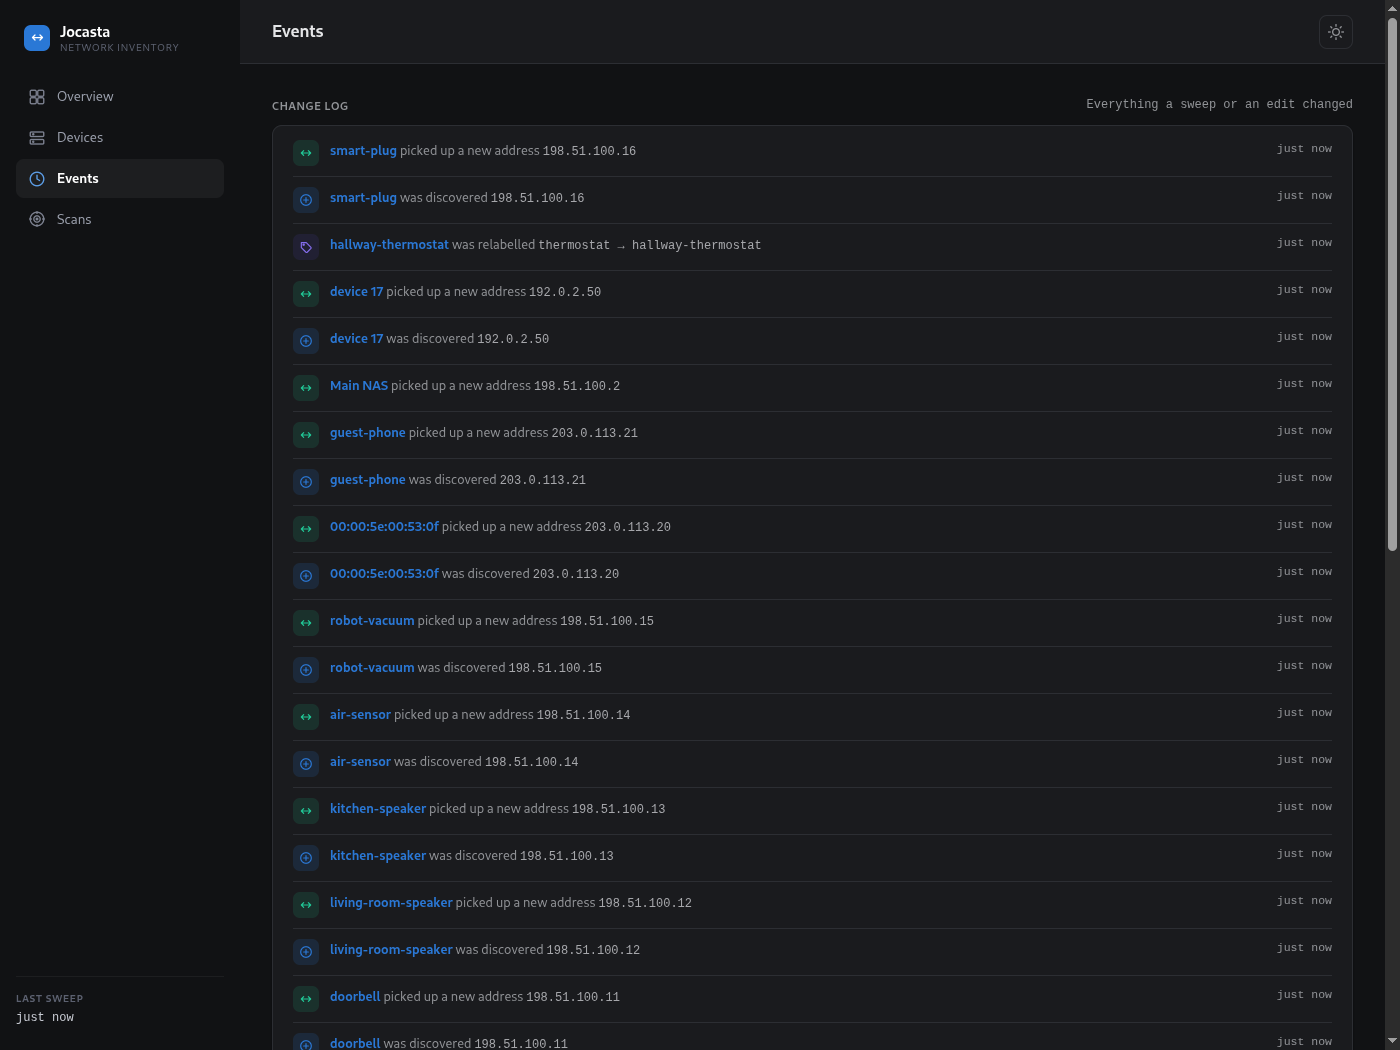
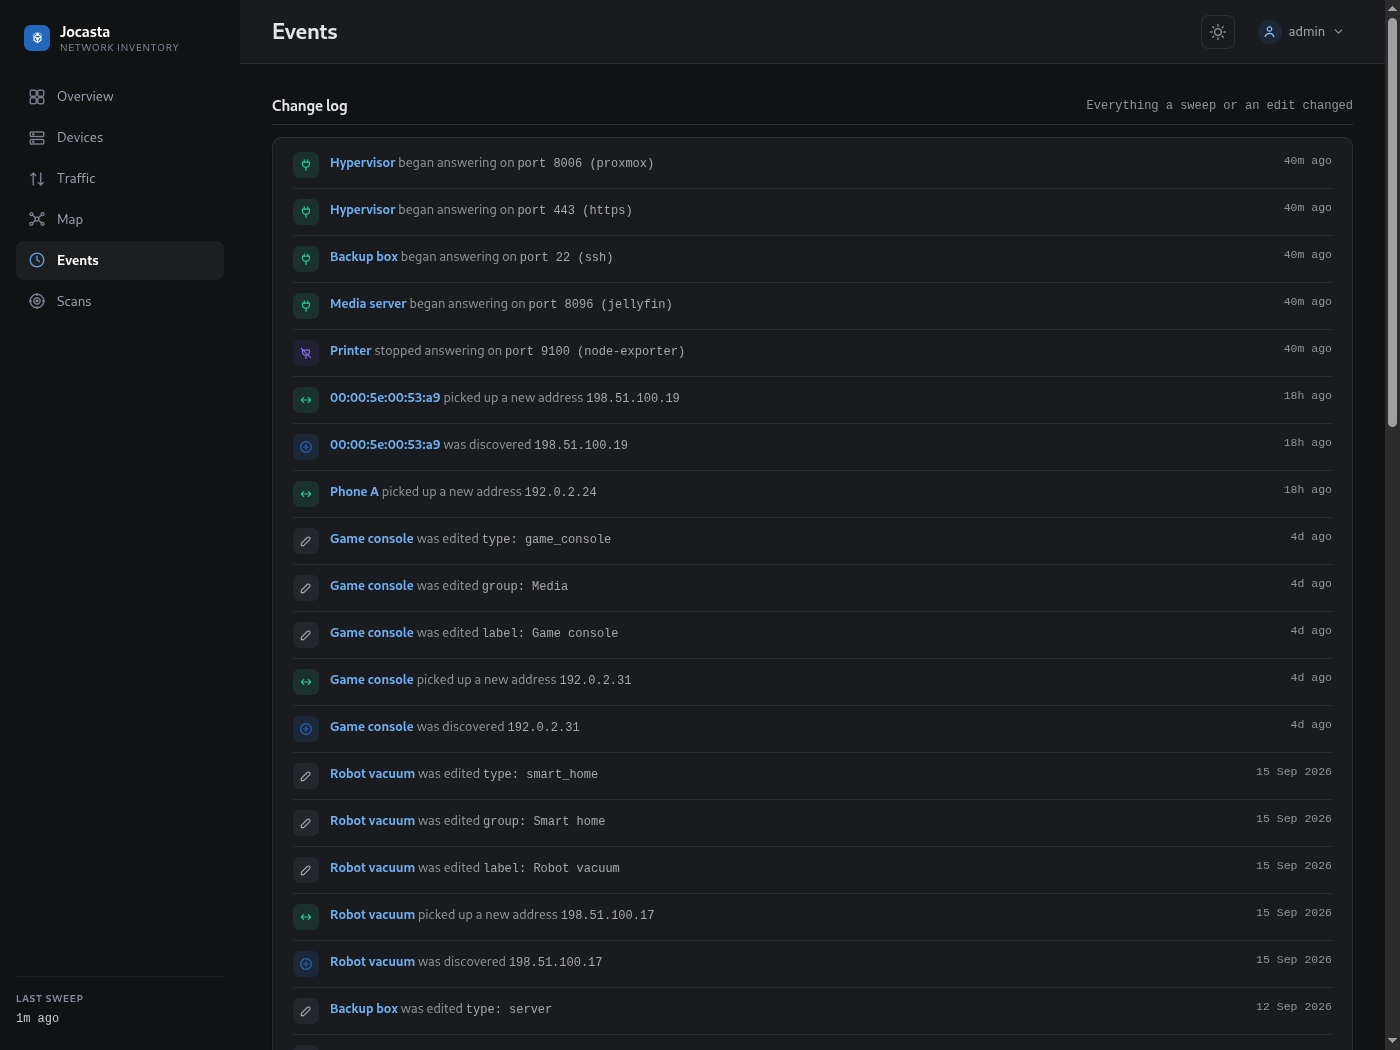
docs: cover traffic and the map, say what each feature needs, refresh screenshots (#206)
* docs: cover traffic, the map and location.timezone

The README now describes traffic collection and the Map. The timezone note moves from the traffic section to Configuration. The setup guide says to publish the NetFlow UDP port on a bridge network, and the serve section lists the flow listeners and the prune.

* docs: say what each feature needs, refresh screenshots

The README's feature table gets a Needs column and lists the sources supported today. The screenshots are retaken on a fabricated network that includes traffic, and new ones cover the Traffic page and the Map.

diff --git a/README.md b/README.md
@@ -33,28 +33,47 @@ Jocasta identifies a device by its hardware (MAC) address rather than its IP.
 An IP is treated as a lease the device currently holds, so the label, group and
 notes you attach to a device stay with it when the address changes.
 
-Alongside its own network sweep, Jocasta reads the ARP and DHCP tables from
-your router. The router sees every network segment, so devices that a
-single-machine scan would miss are identified properly, with a vendor and a
-name.
+On its own, Jocasta sweeps the networks you name. Connect your router and it
+also reads the router's ARP and DHCP tables. The router sees every network
+segment, so devices that a single-machine scan would miss are identified
+properly, with a vendor and a name.
 
 Every device discovered, every address gained or dropped, and every rename is
 written to a change log you can review. Jocasta looks at the network only when
 you tell it to, on a schedule you set or on demand. It does not scan
 continuously.
 
+If your router also exports flow records (NetFlow or IPFIX), Jocasta records
+who each device talks to: the other devices on your network and the
+organisations and countries on the internet. It keeps hourly totals per device,
+never individual connections, and points out devices that probe the network and
+what the internet tried to reach.
+
 ## What you get
 
-| | |
-|---|---|
-| Device inventory | Every device, its addresses, the segment each address is on, its vendor and name, and when it was last seen. |
-| Your own labels | Give a device a label, a group and notes, or mark it to ignore. Scans never overwrite these. |
-| Network view | Each segment, and its VLAN, as its own page with the devices on it. |
-| Change log | A timestamped record of discoveries, moves and renames, per device and across the whole network. |
-| Web interface | Overview dashboard, searchable and filterable device list, per-device and per-network pages, light and dark themes. |
-| API | A JSON API over the same data, for scripts and dashboards. |
-| MCP server | An optional [MCP](https://modelcontextprotocol.io) endpoint, so AI agents such as Claude Code can query the inventory, triage devices and report on changes. |
-| Self-contained | A single binary with an embedded database. No separate services to run. |
+Some features only work once you connect a source. The **Needs** column says
+which.
+
+| | | Needs |
+|---|---|---|
+| Device inventory | Every device, its addresses, the segment each address is on, its vendor and name, and when it was last seen. | Nothing. Without the router, only devices on Jocasta's own segment get a hardware address, vendor and name. |
+| Your own labels | Give a device a label, a group and notes, or mark it to ignore. Scans never overwrite these. | Nothing |
+| Network view | Each segment as its own page with the devices on it. | Nothing. Segment names and VLAN tags come from the router. |
+| Change log | A timestamped record of discoveries, moves and renames, per device and across the whole network. | Nothing |
+| Open ports | Which TCP ports each device listens on, and when that changes. | Port scanning turned on |
+| Traffic | Who each device talks to, on your network and on the internet, over the last day, week or month. Also shows what the internet reached or tried to reach, and devices that scan the network. | Router flow exports |
+| Map | The last hour's traffic as a live tree, from the router out to each network, device and organisation, and a world map of the countries the network talked to. | Router flow exports |
+| Web interface | Overview dashboard, searchable and filterable device list, per-device and per-network pages, light and dark themes. | Nothing |
+| API | A JSON API over the same data, for scripts and dashboards. | Nothing |
+| MCP server | An [MCP](https://modelcontextprotocol.io) endpoint, so AI agents such as Claude Code can query the inventory, triage devices and report on changes. | Turned on in config |
+| Self-contained | A single binary with an embedded database. No separate services to run. | |
+
+Sources supported today:
+
+- **Router tables:** MikroTik RouterOS, read over its REST API. See
+  [Reading your router](docs/setup.md#reading-your-router).
+- **Router flow exports:** any router that sends NetFlow v5, v9 or IPFIX. See
+  [Seeing who devices talk to](docs/setup.md#seeing-who-devices-talk-to).
 
 More screenshots: [docs/ui.md](docs/ui.md).
 
@@ -89,8 +108,8 @@ source and reading your router, see [setup](docs/setup.md).
 
 ## Documentation
 
-- [Setup](docs/setup.md): other ways to install, configuration, and reading
-  devices from your router.
+- [Setup](docs/setup.md): other ways to install, configuration, reading
+  devices from your router, and recording traffic from its flow exports.
 - [CLI](docs/cli.md): one-off sweeps, port scans and source reads from the
   command line.
 - [MCP server](docs/mcp.md): connecting AI agents to the inventory.

diff --git a/docs/setup.md b/docs/setup.md
@@ -9,7 +9,7 @@ how configuration is read, and reading devices from your router.
 ### Container image
 
 Multi-arch images (amd64 and arm64) are on the GitHub Container Registry,
-tagged `latest` and with each release version, e.g. `:v0.2.0`. The image is
+tagged `latest` and with each release version, e.g. `:v0.3.0`. The image is
 distroless and runs as a non-root user. It listens on `0.0.0.0:8080`, keeps its
 SQLite file on the `/data` volume, and reads `/data/jocasta.yaml` if one is
 mounted.
@@ -76,6 +76,15 @@ JOCASTA_SCAN__DEVICES__INTERVAL=10m      # scan.devices.interval
 JOCASTA_PLUGINS__ROUTEROS__GATEWAY__PASSWORD=change-me
 ```
 
+Times are shown in the server's time zone, which in a container is UTC. Name
+yours to see them in local time. This changes only how times are shown; they are
+stored in UTC.
+
+```yaml
+location:
+  timezone: "Australia/Sydney"   # an IANA zone name
+```
+
 Don't commit a `jocasta.yaml` that holds real addresses or credentials.
 `jocasta.yaml` and `*.db` are already in `.gitignore`.
 
@@ -120,6 +129,9 @@ plugins:
 `exporters` is required. Flow records arrive over UDP, which anyone on the
 network can forge, so only the listed routers are read.
 
+With host networking the listener is reachable as it is. On a bridge network,
+publish the port as UDP: `-p 2055:2055/udp`.
+
 On MikroTik RouterOS, point Traffic Flow at the Jocasta host (here
 `192.0.2.10`):
 
@@ -152,21 +164,15 @@ location:
 Only the country is used, to start the lines from its middle; nothing finer
 is asked for or stored.
 
-Times are shown in the server's time zone, which in a container is UTC. Name
-yours to see them in local time:
-
-```yaml
-location:
-  timezone: "Australia/Sydney"
-```
-
 ## Optional features
 
 - **Port scanning**: set `scan.ports.enabled: true` to probe every known
   address for open TCP ports on a timer. See [CLI](cli.md#ports) for one-off
   scans.
-- **Traffic**: who each device talks to, from your router's flow exports. See
-  [Seeing who devices talk to](#seeing-who-devices-talk-to).
+- **Traffic**: who each device talks to, from your router's flow exports,
+  with a Traffic page and a live Map. See
+  [Seeing who devices talk to](#seeing-who-devices-talk-to) and
+  [the web UI](ui.md#traffic-page).
 - **MCP server**: lets AI agents query the inventory. See [MCP](mcp.md).
 - **JSON API**: under `/api`, for scripts and dashboards. It takes the same API
   tokens as MCP, sent as `Authorization: Bearer <token>`.

diff --git a/docs/ui.md b/docs/ui.md
@@ -5,7 +5,8 @@ Pages are server-rendered; htmx handles in-place updates and the periodic
 refresh.
 
 The screenshots below use synthetic data: addresses from RFC 5737, hardware
-addresses from RFC 7042, invented names.
+addresses from RFC 7042, invented names. The internet peers are well-known
+public services, so their organisations resolve.
 
 ## Overview
 
@@ -89,10 +90,13 @@ tried 20 or more addresses on your network, or 20 or more ports on one of
 them, without the connections carrying data: what a scan looks like. A host
 you run scans from appears there too.
 
+![Traffic page](img/traffic.png)
+
 ## Map
 
-The Map draws the last hour's traffic as a tree. The router is in the
-middle, with a hub for each network and one for the internet around it. Each
+When traffic collection is set up, the Map draws the last hour's traffic as
+a tree. The router is in the middle, with a hub for each network and one for
+the internet around it. Each
 network's devices, and the internet's organisations, fan out around their
 hub. A branch is thicker the more traffic passed along it, and moves when
 anything under it was active in the last 15 minutes. The page redraws itself
@@ -112,6 +116,8 @@ search are kept across each redraw, and devices keep their place. The legend
 in the top right names each network's colour with its device count; pointing
 at one picks its devices out. The busiest 60 devices and 12 organisations are
 drawn, and each device links to its page.
+
+![Map](img/map.png)
 
 The World tab places the same hour's internet traffic on a map of the world.
 A country is shaded darker the more

diff --git a/docs/cli.md b/docs/cli.md
@@ -26,7 +26,9 @@ jocasta serve -p 9000         # override the port
 Starts the HTTP server. When `scan.devices.enabled` is set, it also starts a
 poller that sweeps every network in `networks` on `scan.devices.interval`. When
 `scan.ports.enabled` is set, a second poller port-scans every address the
-inventory holds on `scan.ports.interval`.
+inventory holds on `scan.ports.interval`. Each enabled `netflow` instance
+starts a listener for its router's flow exports, and an hourly prune deletes
+records older than their `retention` window.
 
 ## `scan`
 

diff --git a/docs/development.md b/docs/development.md
@@ -32,4 +32,5 @@ Queries are SQLC-generated from `internal/db/queries/`. The schema is in
 
 The images in [`docs/ui.md`](ui.md) are taken against a database of fabricated
 devices, never real network data: addresses from RFC 5737, hardware addresses
-from RFC 7042, invented names.
+from RFC 7042, invented names. Internet peers are well-known public services,
+so their organisations and countries resolve.
